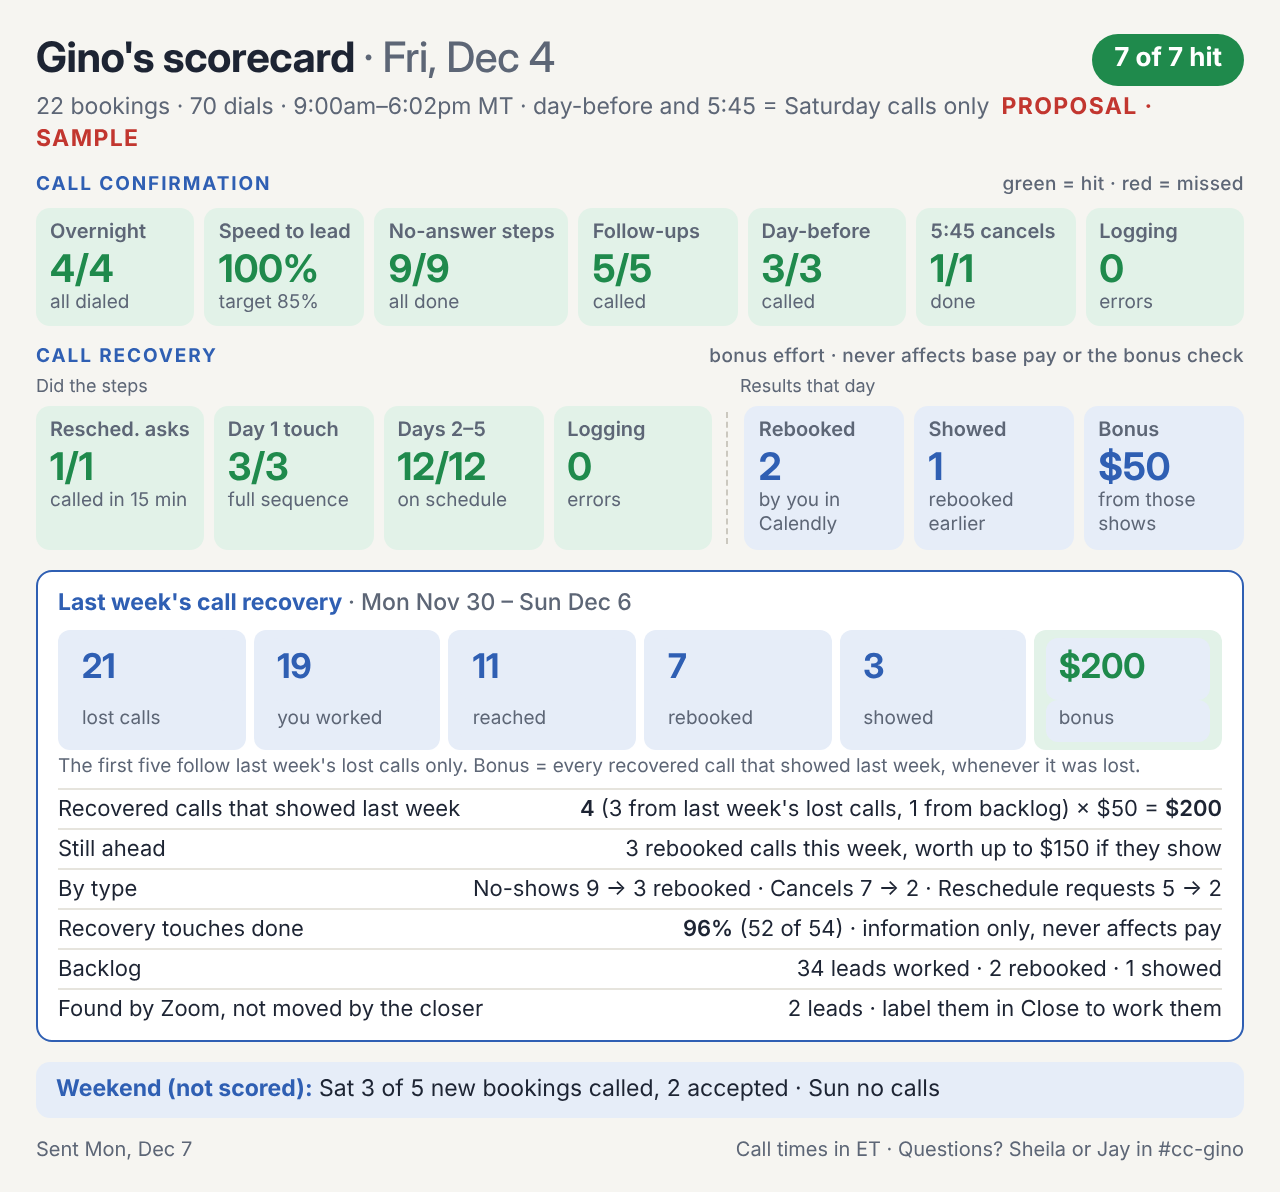
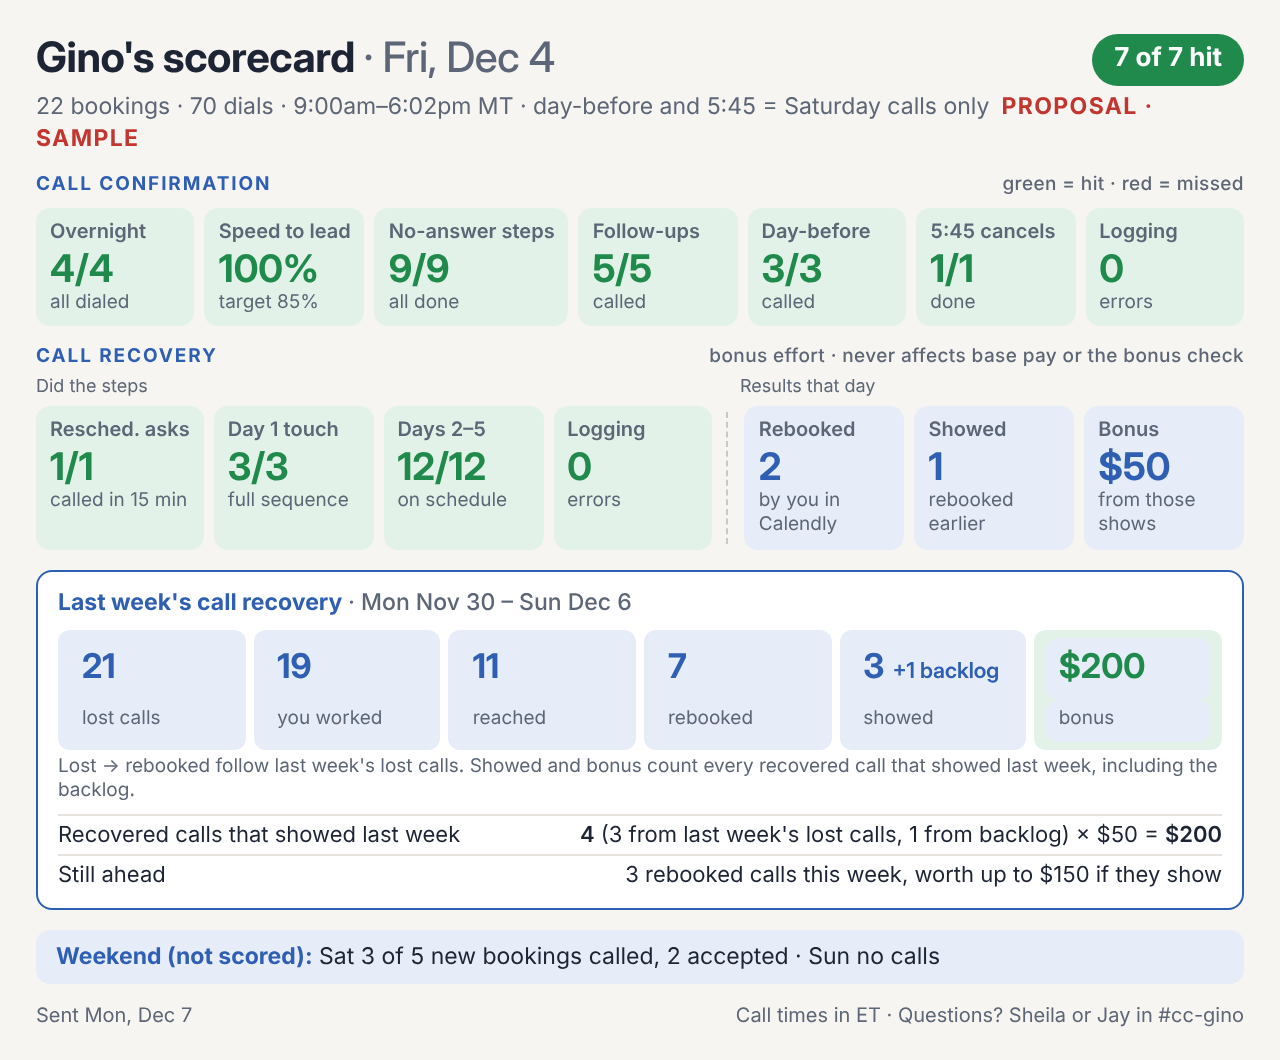
Recovery proposal rev 3: trimmed Monday box, double dials days 2-5, Calendly scheduler check
Claude-Session: https://claude.ai/code/session_01D9LMPRREqJ9c3GbMSw9C3k

Changed region(s): [[0.0312, 0.0311, 0.9688, 0.9651]]

diff --git a/proposals/call-recovery/mockup/scorecard.html b/proposals/call-recovery/mockup/scorecard.html
@@ -63,6 +63,7 @@
   .fn { display:grid; grid-template-columns: repeat(6, 1fr); gap:4px; margin-bottom:6px; }
   .fn div { background:var(--b-bg); border-radius:6px; padding:4px 6px; }
   .fn .v { font-family:"Inter Display",Inter,sans-serif; font-size:17px; font-weight:700; color:var(--b); }
+  .fn .v small { font-size:11px; font-weight:600; margin-left:4px; }
   .fn .n { font-size:9.5px; color:var(--muted); }
   .fn .pay { background:var(--g-bg); } .fn .pay .v { color:var(--g); }
   .wkl { font-size:11px; padding:2px 0; border-top:1px solid var(--line); display:flex; justify-content:space-between; }
@@ -93,14 +94,10 @@ const MON = {
   weekend: "<b>Weekend (not scored):</b> Sat 3 of 5 new bookings called, 2 accepted · Sun no calls",
   lastWeek: {
     range: "Mon Nov 30 – Sun Dec 6",
-    fn: [["21","lost calls"],["19","you worked"],["11","reached"],["7","rebooked"],["3","showed"],["$200","bonus","pay"]],
+    fn: [["21","lost calls"],["19","you worked"],["11","reached"],["7","rebooked"],["3<small>+1 backlog</small>","showed"],["$200","bonus","pay"]],
     lines: [
       ["Recovered calls that showed last week", "<b>4</b> (3 from last week's lost calls, 1 from backlog) × $50 = <b>$200</b>"],
-      ["Still ahead", "3 rebooked calls this week, worth up to $150 if they show"],
-      ["By type", "No-shows 9 → 3 rebooked · Cancels 7 → 2 · Reschedule requests 5 → 2"],
-      ["Recovery touches done", "<b>96%</b> (52 of 54) · information only, never affects pay"],
-      ["Backlog", "34 leads worked · 2 rebooked · 1 showed"],
-      ["Found by Zoom, not moved by the closer", "2 leads · label them in Close to work them"]
+      ["Still ahead", "3 rebooked calls this week, worth up to $150 if they show"]
     ]
   },
   ask: []
@@ -124,7 +121,7 @@ document.getElementById("app").innerHTML = `
 
   ${lw ? `<div class="wkbox"><h3>Last week's call recovery <span>· ${lw.range}</span></h3>
     <div class="fn">${lw.fn.map(([v, n, c]) => `<div class="${c || ""}"><div class="v">${v}</div><div class="n">${n}</div></div>`).join("")}</div>
-    <div style="font-size:9.5px;color:var(--muted);margin:-3px 0 4px">The first five follow last week's lost calls only. Bonus = every recovered call that showed last week, whenever it was lost.</div>
+    <div style="font-size:9.5px;color:var(--muted);margin:-3px 0 4px">Lost → rebooked follow last week's lost calls. Showed and bonus count every recovered call that showed last week, including the backlog.</div>
     ${lw.lines.map(([k, v]) => `<div class="wkl"><span>${k}</span><span>${v}</span></div>`).join("")}</div>` : ""}
 
   ${d.ask.length ? `<div class="ask"><div class="ask-h"><b>Reply with why (${d.ask.length}):</b> in this post's thread by noon MT, one line per number, e.g. "2: he asked me to wait"</div>

diff --git a/proposals/call-recovery/README.md b/proposals/call-recovery/README.md
@@ -43,10 +43,10 @@ Mockups (sample data, made-up names):
 | Day | Due | Call Recovery field |
 |---|---|---|
 | 1 | Call → double dial → recovery voicemail + the Day 1 text for the type (no-show, cancel or reschedule request) | Day 1 Recovery - No Pickup, Double Dial, VM, Text |
-| 2 | Call only | Day 2 Recovery - No Pickup |
-| 3 | Call + Day 3 voicemail + Day 3 text | Day 3 Recovery - No Pickup (see note) |
-| 4 | Call only | Day 4 Recovery - No Pickup |
-| 5 | Call + breakup voicemail + breakup text, then stop | Day 5 Recovery - No Pickup, Double Dial, VM, Text |
+| 2 | Call (double dial unless they pick up) | Day 2 Recovery - No Pickup |
+| 3 | Call (double dial) + Day 3 voicemail + Day 3 text | Day 3 Recovery - No Pickup (see note) |
+| 4 | Call (double dial unless they pick up) | Day 4 Recovery - No Pickup |
+| 5 | Call (double dial) + breakup voicemail + breakup text, then stop | Day 5 Recovery - No Pickup, Double Dial, VM, Text |
 
 - **The sequence ends early when:**
   - he rebooks the lead (field = Rebooked);
@@ -96,7 +96,8 @@ Open item B below covers how the tracker proves #3.
   - **The funnel of last week's lost calls only:** lost → worked → reached → rebooked → showed.
   - **The bonus:** every recovered call that showed last week, whenever it was lost, split into this week's and backlog.
   - **Still ahead:** rebooked calls still to come, and what they could earn.
-  - A **by-type** line, **recovery touches %** (information only), **backlog** worked/rebooked/showed, and **found by Zoom, not moved by the closer**.
+  - The **showed** tile shows last week's recovered shows, with backlog shows as a small "+1 backlog" next to it, so showed × $50 = the bonus tile.
+  - Nothing else: by-type, touches %, backlog and Zoom-found lines were cut as redundant (Sheila, Nov 24).
 
 ---
 
@@ -111,11 +112,7 @@ Open item B below covers how the tracker proves #3.
 | **Definitions** | Adds the rules above. |
 | Supabase | Two new tables, `call_confirm_recovery_cases` and `call_confirm_recovery_touches`. Creating them is DDL, so it needs Sheila's approval. |
 
-**Question 7, the empty "Call Recovery" tab.** The tracker already has a tab called "Call Recovery". It's empty, like a section divider, the same as "Call Confirmation>>". **Proposal:**
-- Rename it **"Call Recovery>>"** so it works as a divider.
-- Put the new recovery tab(s) right after it.
-
-Sheila decides.
+**Tab order:** Sheila renamed the empty "Call Recovery" tab to **"Call Recovery>>"** (Nov 24). It's a divider like "Call Confirmation>>". The new recovery tab(s) go right after it. The runbook's tab order and its "never touch Sheila's tabs" list need updating to the new name.
 
 ---
 
@@ -124,8 +121,6 @@ Sheila decides.
 | # | Item | Proposed |
 |---|---|---|
 | A | Reschedule request "right away" | Within 15 minutes during his shift; first 30 minutes of the next shift if it comes in overnight |
-| B | **Proving Gino was the scheduler in Calendly** | To check: whether Calendly's booking data names who booked on the invitee's behalf. If it doesn't, the fallback is "Gino had a live call or text with the lead in Close in the minutes before the booking was created". Sheila to approve whichever proves reliable. |
-| C | Days 2–5: one dial or a double dial? | One dial, unless the SOP says otherwise |
+| B | **Proving Gino was the scheduler in Calendly** | Calendly's booking data has an `invitee_scheduled_by` field (and `scheduling_method`). On every recent booking checked (Nov 19–23, setter S2C calls included) it's empty: those were booked through the public booking page, which records no scheduler. It should fill in only when a logged-in Calendly user books through Calendly's own book-on-behalf flow. **Needs a test:** Gino (he has a Calendly seat) books one real recovery on `sdrb_c2_startnow` while logged in, and we check that the field names him. Fallback if it can't: credit when Gino had a logged call with the lead in the 15 minutes before the booking was created, and nobody else touched the lead. |
 | D | Close field fixes (Sheila's call, nothing changed) | Rename "Day 3 Recovery - No Pickup" to include VM + Text. Add choices for "Not interested" and "Callback set", so a case can end early for the right reason. |
 | E | "Call Recovery - Follow-up" smart view | Add a "not called today" filter, or sort by last call, so he doesn't call anyone twice or skip anyone |
-| F | Call Recovery tab naming (question 7 above) | Rename it to a divider; new tabs go after it |
